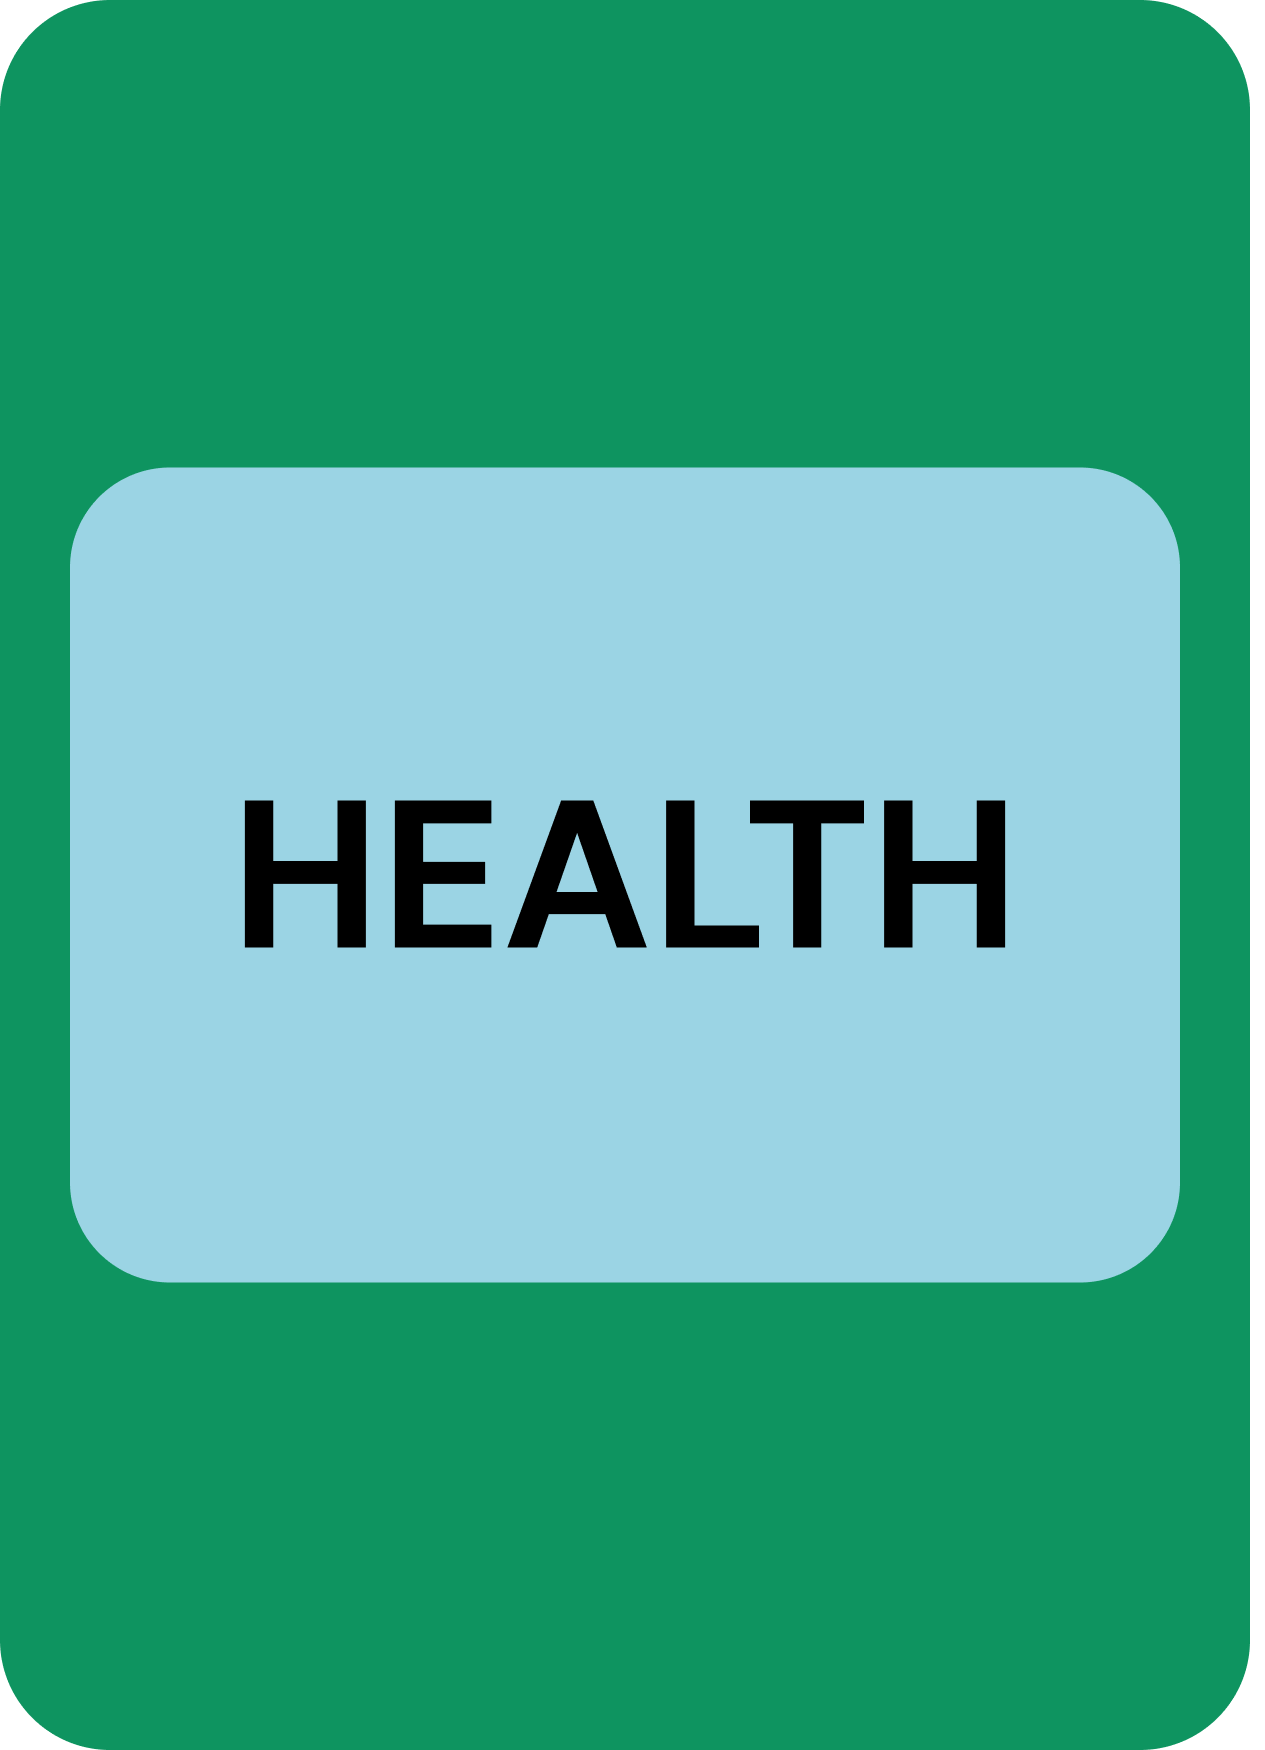
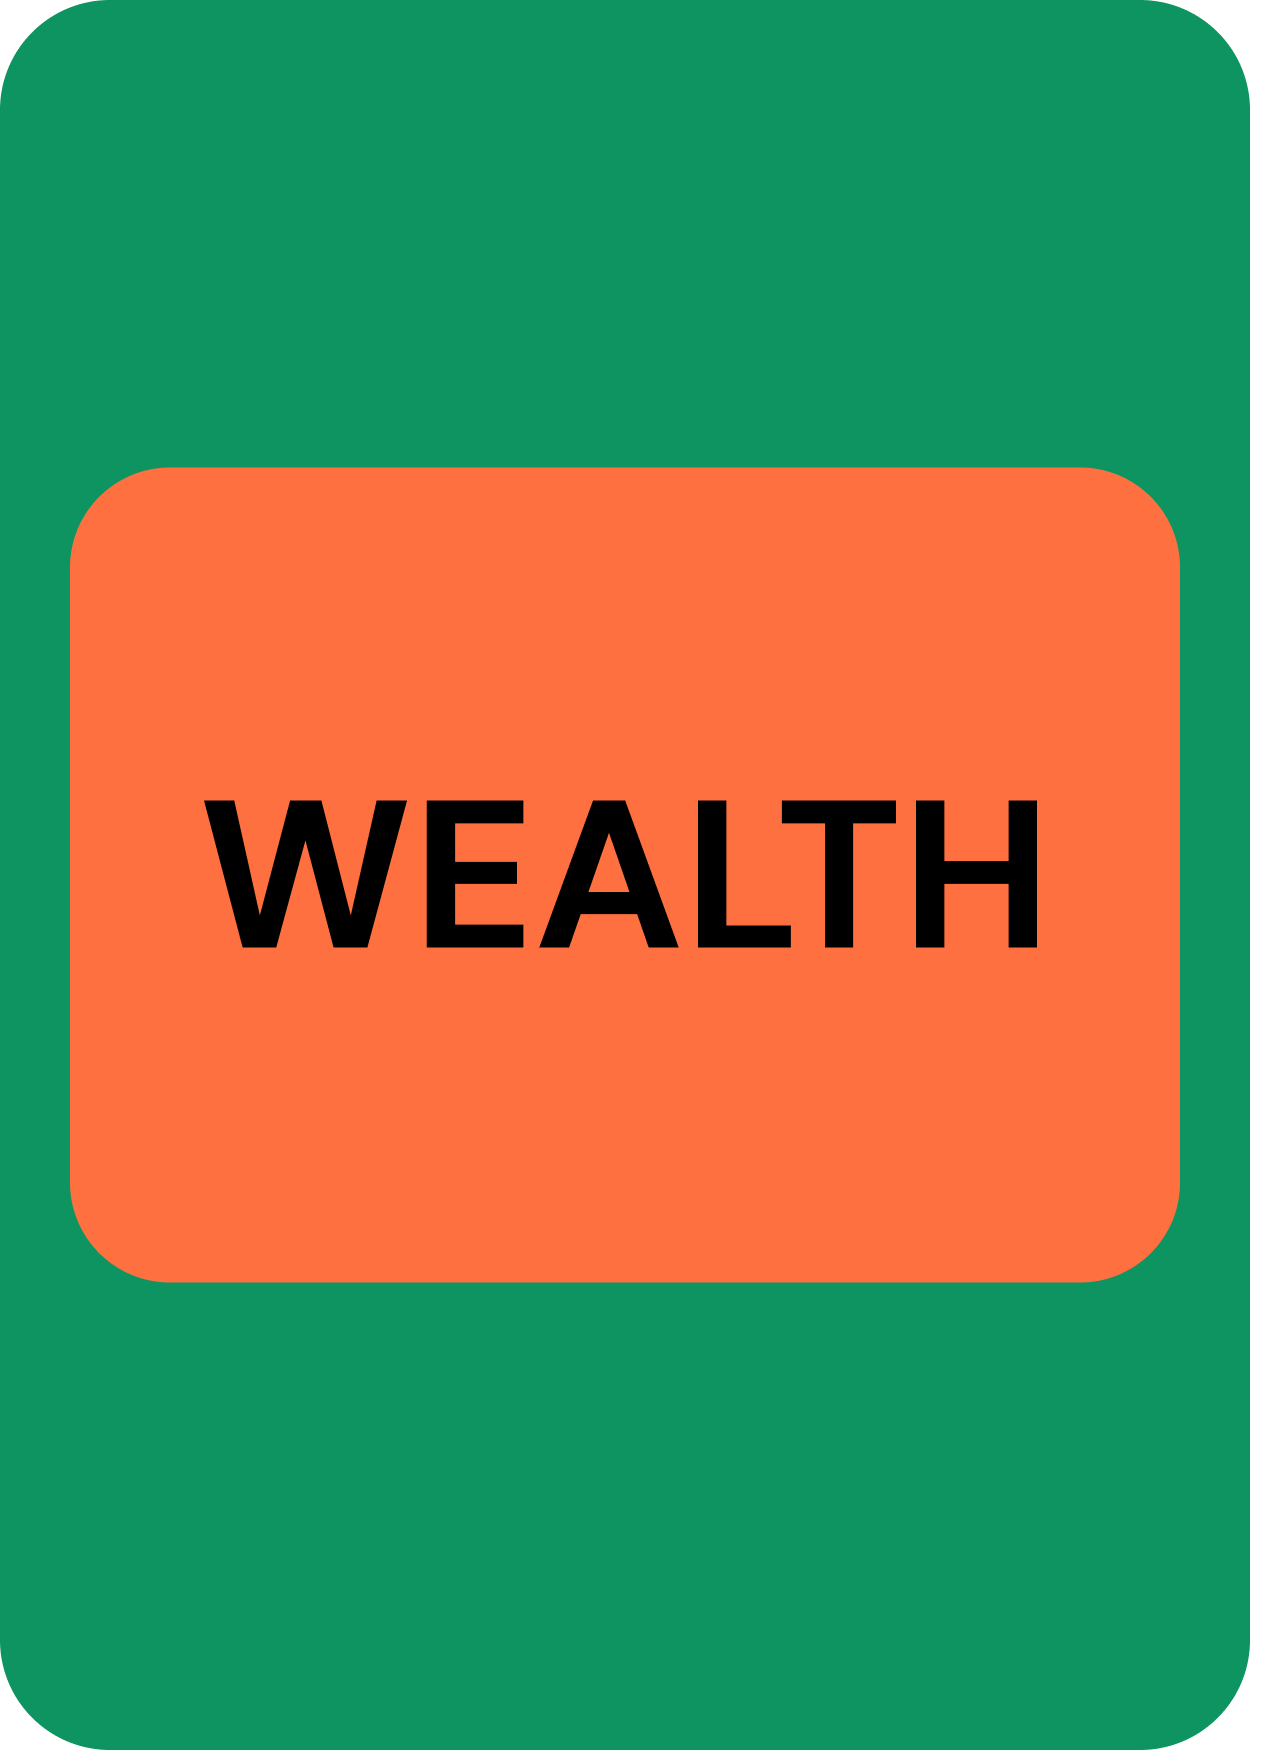
.

diff --git a/src/app/playgame/maingame/page.js b/src/app/playgame/maingame/page.js
@@ -9,28 +9,33 @@ export default function MainGamePage() {
   const router = useRouter();
   const searchParams = useSearchParams();
   const [showInstructions, setShowInstructions] = useState(false);
-  
-  // Get player images from URL parameters
-  const player1Img = searchParams.get('player1') || "/green_player_1.png";
-  const player2Img = searchParams.get('player2') || "/purple_player_1.png";
+  const [revealedCard, setRevealedCard] = useState(null);
 
-  // Placeholder: card image filenames
-  const player1Cards = [
-    { src: "/school_card_placeholder.png", alt: "School Card" },
-    { src: "/career_card_placeholder.png", alt: "Career Card" },
-    { src: "/health_card_placeholder.png", alt: "Health Card" },
-    { src: "/wealth_card_placeholder.png", alt: "Wealth Card" },
-    { src: "/community_celebration_card_placeholder.png", alt: "Community Celebration Card" },
+  // Read params
+  const player1Img = searchParams.get('player1Img') ? `/${searchParams.get('player1Img')}` : "/green_player_1.png";
+  const player2Img = searchParams.get('player2Img') ? `/${searchParams.get('player2Img')}` : "/purple_player_1.png";
+  const player1Color = searchParams.get('player1Color') || "green";
+  const player2Color = searchParams.get('player2Color') || "purple";
+
+  // Card sets
+  const purpleCards = [
+    { front: "/purple-career.png", back: "/purplecareer.png" },
+    { front: "/purple-community.png", back: "/purple-comm-f1.png" },
+    { front: "/purple-health.png", back: "/purple-health-f1.png" },
+    { front: "/purple-school.png", back: "/purple-school-f1.png" },
+    { front: "/purple-wealth.png", back: "/purple-wealth-f1.png" },
   ];
-  const player2Cards = [
-    { src: "/school_card_placeholder2.png", alt: "School Card" },
-    { src: "/career_card_placeholder2.png", alt: "Career Card" },
-    { src: "/health_card_placeholder2.png", alt: "Health Card" },
-    { src: "/wealth_card_placeholder2.png", alt: "Wealth Card" },
-    { src: "/community_celebration_card_placeholder2.png", alt: "Community Celebration Card" },
+  const greenCards = [
+    { front: "/green-career.png", back: "/green-career-f1.png" },
+    { front: "/green-comm.png", back: "/green-comm-f1.png" },
+    { front: "/green-health.png", back: "/green-health-f1.png" },
+    { front: "/green-school.png", back: "/green-school-f1.png" },
+    { front: "/green-wealth.png", back: "/green-wealth-f1.png" },
   ];
-  // Placeholder: revealed card
-  const revealedCard = { label: "SCHOOL", text: "Your school doesn't have enough money, so you have to share textbooks with friends.\nSkip your next turn.", color: "#ffe066" };
+
+  // Pick correct card set for each player
+  const player1Cards = player1Color === "green" ? greenCards : purpleCards;
+  const player2Cards = player2Color === "green" ? greenCards : purpleCards;
 
   return (
     <div className={styles.page} style={{background: '#e9e6fa'}}>
@@ -61,21 +66,66 @@ export default function MainGamePage() {
           {/* Player 1 */}
           <div style={{display: 'flex', flexDirection: 'column', alignItems: 'center', minWidth: 180}}>
             <div style={{background: '#CCE5E5', borderRadius: 12, padding: '8px 16px', fontWeight: 700, border: '2px solid #222', boxShadow: '0 2px 0 #222', marginBottom: 8}}>Player 1</div>
-            <div style={{border: '3px solid #7ed957', borderRadius: 12, padding: 4, marginBottom: 12}}>
+            <div style={{border: player1Color === 'green' ? '3px solid #7ed957' : '3px solid #b39ddb', borderRadius: 12, padding: 4, marginBottom: 12}}>
               <Image src={player1Img} alt="Player 1" width={90} height={90} />
             </div>
-            <div style={{display: 'flex', flexWrap: 'wrap', gap: 8, justifyContent: 'center', marginTop: 8}}>
-              {player1Cards.map((card, i) => (
-                <Image key={i} src={card.src} alt={card.alt} width={70} height={48} style={{borderRadius: 8, boxShadow: '0 2px 0 #222', border: '2px solid #222', background: '#fff'}} />
-              ))}
+            <div style={{display: 'flex', flexDirection: 'column', gap: 8, alignItems: 'center', marginTop: 8}}>
+              {/* Top row - 3 cards */}
+              <div style={{display: 'flex', gap: 16}}>
+                {player1Cards.slice(0, 3).map((card, i) => (
+                  <Image
+                    key={i}
+                    src={card.front}
+                    alt={`Card ${i+1}`}
+                    width={83}
+                    height={107}
+                    style={{
+                      cursor: 'pointer',
+                      borderRadius: '14px',
+                      boxShadow: '0 4px 12px rgba(34,34,34,0.18)',
+                      border: '2px solid #222',
+                      transition: 'transform 0.15s, box-shadow 0.15s',
+                    }}
+                    onMouseOver={e => e.currentTarget.style.transform = 'scale(1.05)'}
+                    onMouseOut={e => e.currentTarget.style.transform = 'scale(1)'}
+                    onClick={() => setRevealedCard(card.back)}
+                  />
+                ))}
+              </div>
+              {/* Bottom row - 2 cards */}
+              <div style={{display: 'flex', gap: 16}}>
+                {player1Cards.slice(3, 5).map((card, i) => (
+                  <Image
+                    key={i + 3}
+                    src={card.front}
+                    alt={`Card ${i+4}`}
+                    width={83}
+                    height={107}
+                    style={{
+                      cursor: 'pointer',
+                      borderRadius: '14px',
+                      boxShadow: '0 4px 12px rgba(34,34,34,0.18)',
+                      border: '2px solid #222',
+                      transition: 'transform 0.15s, box-shadow 0.15s',
+                    }}
+                    onMouseOver={e => e.currentTarget.style.transform = 'scale(1.05)'}
+                    onMouseOut={e => e.currentTarget.style.transform = 'scale(1)'}
+                    onClick={() => setRevealedCard(card.back)}
+                  />
+                ))}
+              </div>
             </div>
           </div>
           {/* Center revealed card */}
           <div style={{display: 'flex', flexDirection: 'column', alignItems: 'center', minWidth: 220}}>
-            <div style={{background: revealedCard.color, borderRadius: 12, boxShadow: '0 3px 0 #222', border: '2px solid #222', width: 180, minHeight: 120, display: 'flex', flexDirection: 'column', alignItems: 'center', justifyContent: 'center', fontWeight: 700, fontSize: 20, marginBottom: 8, padding: 12}}>
-              <div style={{fontWeight: 700, fontSize: 20, marginBottom: 8}}>{revealedCard.label}</div>
-              <div style={{fontWeight: 400, fontSize: 15, whiteSpace: 'pre-line'}}>{revealedCard.text}</div>
-            </div>
+            {revealedCard ? (
+              <Image src={revealedCard} alt="Revealed Card" width={180} height={240} style={{borderRadius: 12, boxShadow: '0 3px 0 #222', border: '2px solid #222', marginBottom: 8, background: '#fff'}} />
+            ) : (
+              <div style={{background: '#ffe066', borderRadius: 12, boxShadow: '0 3px 0 #222', border: '2px solid #222', width: 180, minHeight: 120, display: 'flex', flexDirection: 'column', alignItems: 'center', justifyContent: 'center', fontWeight: 700, fontSize: 20, marginBottom: 8, padding: 12}}>
+                
+                <div style={{fontWeight: 400, fontSize: 11, whiteSpace: 'pre-line', fontWeight: 1000}}>Click a card to reveal it.</div>
+              </div>
+            )}
             {/* Down arrow */}
             <div style={{fontSize: 32, margin: '8px 0'}}>&#8595;</div>
             <button style={{background: '#CCE5E5', color: '#222', border: '2px solid #222', borderRadius: 18, fontWeight: 700, fontSize: 18, padding: '8px 28px', boxShadow: '0 2px 0 #222', cursor: 'pointer', marginTop: 4}}>Learn More</button>
@@ -83,13 +133,54 @@ export default function MainGamePage() {
           {/* Player 2 */}
           <div style={{display: 'flex', flexDirection: 'column', alignItems: 'center', minWidth: 180}}>
             <div style={{background: '#CCE5E5', borderRadius: 12, padding: '8px 16px', fontWeight: 700, border: '2px solid #222', boxShadow: '0 2px 0 #222', marginBottom: 8}}>Player 2</div>
-            <div style={{border: '3px solid #b39ddb', borderRadius: 12, padding: 4, marginBottom: 12}}>
+            <div style={{border: player2Color === 'green' ? '3px solid #7ed957' : '3px solid #b39ddb', borderRadius: 12, padding: 4, marginBottom: 12}}>
               <Image src={player2Img} alt="Player 2" width={90} height={90} />
             </div>
-            <div style={{display: 'flex', flexWrap: 'wrap', gap: 8, justifyContent: 'center', marginTop: 8}}>
-              {player2Cards.map((card, i) => (
-                <Image key={i} src={card.src} alt={card.alt} width={70} height={48} style={{borderRadius: 8, boxShadow: '0 2px 0 #222', border: '2px solid #222', background: '#fff'}} />
-              ))}
+            <div style={{display: 'flex', flexDirection: 'column', gap: 8, alignItems: 'center', marginTop: 8}}>
+              {/* Top row - 3 cards */}
+              <div style={{display: 'flex', gap: 16}}>
+                {player2Cards.slice(0, 3).map((card, i) => (
+                  <Image
+                    key={i}
+                    src={card.front}
+                    alt={`Card ${i+1}`}
+                    width={83}
+                    height={107}
+                    style={{
+                      cursor: 'pointer',
+                      borderRadius: '14px',
+                      boxShadow: '0 4px 12px rgba(34,34,34,0.18)',
+                      border: '2px solid #222',
+                      transition: 'transform 0.15s, box-shadow 0.15s',
+                    }}
+                    onMouseOver={e => e.currentTarget.style.transform = 'scale(1.05)'}
+                    onMouseOut={e => e.currentTarget.style.transform = 'scale(1)'}
+                    onClick={() => setRevealedCard(card.back)}
+                  />
+                ))}
+              </div>
+              {/* Bottom row - 2 cards */}
+              <div style={{display: 'flex', gap: 16}}>
+                {player2Cards.slice(3, 5).map((card, i) => (
+                  <Image
+                    key={i + 3}
+                    src={card.front}
+                    alt={`Card ${i+4}`}
+                    width={83}
+                    height={107}
+                    style={{
+                      cursor: 'pointer',
+                      borderRadius: '14px',
+                      boxShadow: '0 4px 12px rgba(34,34,34,0.18)',
+                      border: '2px solid #222',
+                      transition: 'transform 0.15s, box-shadow 0.15s',
+                    }}
+                    onMouseOver={e => e.currentTarget.style.transform = 'scale(1.05)'}
+                    onMouseOut={e => e.currentTarget.style.transform = 'scale(1)'}
+                    onClick={() => setRevealedCard(card.back)}
+                  />
+                ))}
+              </div>
             </div>
           </div>
         </div>

diff --git a/src/app/playgame/choosecharacter/ChooseCharacterClient.js b/src/app/playgame/choosecharacter/ChooseCharacterClient.js
@@ -94,6 +94,31 @@ export default function ChooseCharacterClient() {
     return '';
   };
 
+  const handleContinue = () => {
+    // Determine which player is green/purple and which character was selected
+    const player1Color = cleanColor(player1).toLowerCase();
+    const player2Color = cleanColor(player2).toLowerCase();
+
+    let player1Img = "";
+    let player2Img = "";
+
+    if (player1Color === "green") {
+      player1Img = selectedGreen !== null ? greenCharacters[selectedGreen].src.replace("/", "") : "";
+    } else if (player1Color === "purple") {
+      player1Img = selectedPurple !== null ? purpleCharacters[selectedPurple].src.replace("/", "") : "";
+    }
+
+    if (player2Color === "green") {
+      player2Img = selectedGreen !== null ? greenCharacters[selectedGreen].src.replace("/", "") : "";
+    } else if (player2Color === "purple") {
+      player2Img = selectedPurple !== null ? purpleCharacters[selectedPurple].src.replace("/", "") : "";
+    }
+
+    router.push(
+      `/playgame/maingame?player1Img=${player1Img}&player1Color=${player1Color}&player2Img=${player2Img}&player2Color=${player2Color}`
+    );
+  };
+
   return (
     <div className={styles.page} style={{background: '#e9e6fa'}}>
       {/* Header and nav ... (unchanged) ... */}
@@ -184,7 +209,7 @@ export default function ChooseCharacterClient() {
         <button
           className={styles.continueButton}
           style={{background: '#ffd166', color: '#222', border: '2px solid #222', fontWeight: 600, fontSize: '1.1rem', marginTop: 32}}
-          onClick={() => router.push('/playgame/skincolor')}
+          onClick={handleContinue}
         >
           Continue
         </button>
